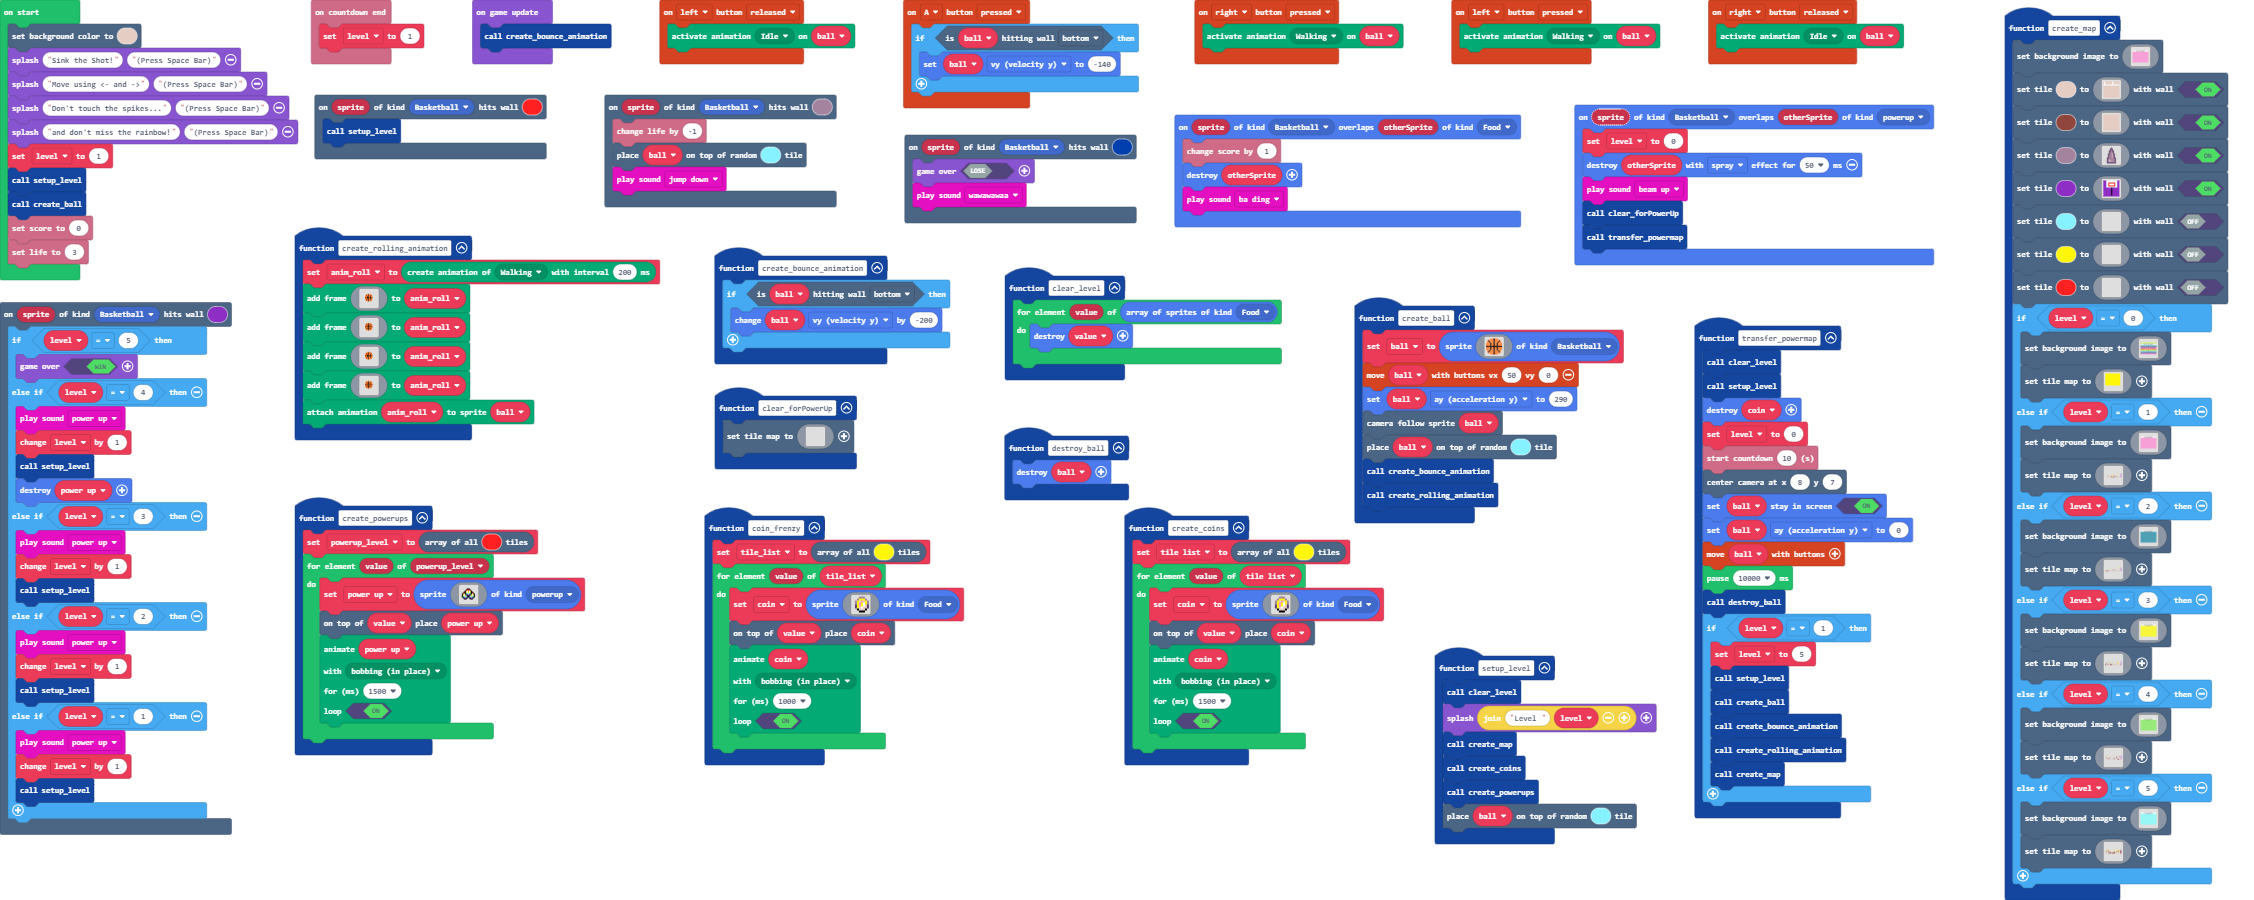
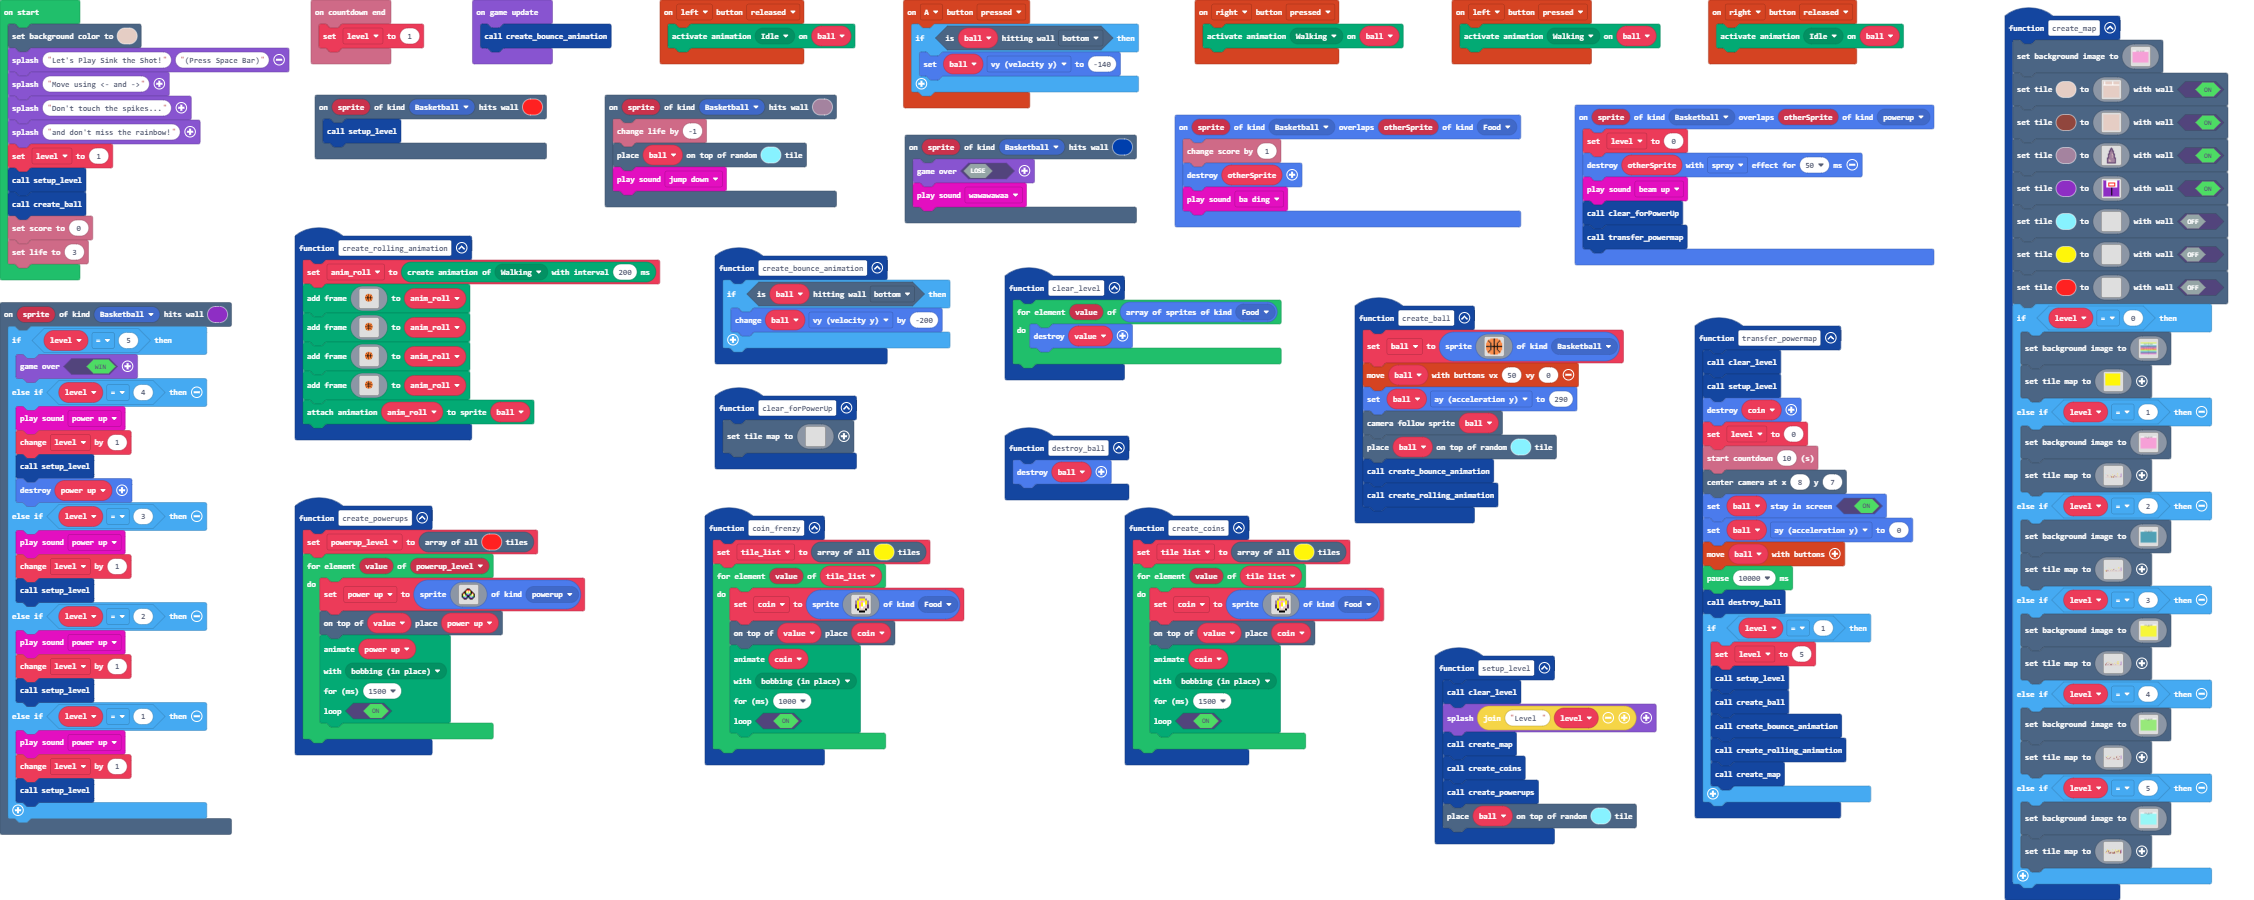
splashes

Changed region(s): [[0.0311, 0.0311, 0.1553, 0.1867]]

diff --git a/main.ts b/main.ts
@@ -1274,7 +1274,7 @@ function create_map () {
             9 . . . . . . . . . . . . . . . . . . . . . . d d d d d . . . a 
             . . . . 5 . . 5 . . . . . . . d . d . d . . d . . . . . d . . a 
             d d . . . . . . . . d d d . . . . . . . . . e . . . . . e . . a 
-            . . d . . . . . . d . . . . . d . 5 . d . . e . . 2 . . . . . a 
+            . e d . . . . . . d e . . . . d . 5 . d . . e . . 2 . . . . . a 
             . . e d . . . . d e . . . . . . . d . . . . e . . . . . . . . a 
             . . . e d . . d e . . . . . . d d e d d . . . . . . . . d . d a 
             . . . . b b b b . . . . . . . b b b b b . . . d d d d d . b . a 
@@ -1424,10 +1424,10 @@ let power_up: Sprite = null
 let ball: Sprite = null
 let level = 0
 scene.setBackgroundColor(13)
-game.splash("Sink the Shot!", "(Press Space Bar)")
-game.splash("Move using <- and ->", "(Press Space Bar)")
-game.splash("Don't touch the spikes...", "(Press Space Bar)")
-game.splash("and don't miss the rainbow!", "(Press Space Bar)")
+game.splash("Let's Play Sink the Shot!", "(Press Space Bar)")
+game.splash("Move using <- and ->")
+game.splash("Don't touch the spikes...")
+game.splash("and don't miss the rainbow!")
 level = 1
 setup_level()
 create_ball()
